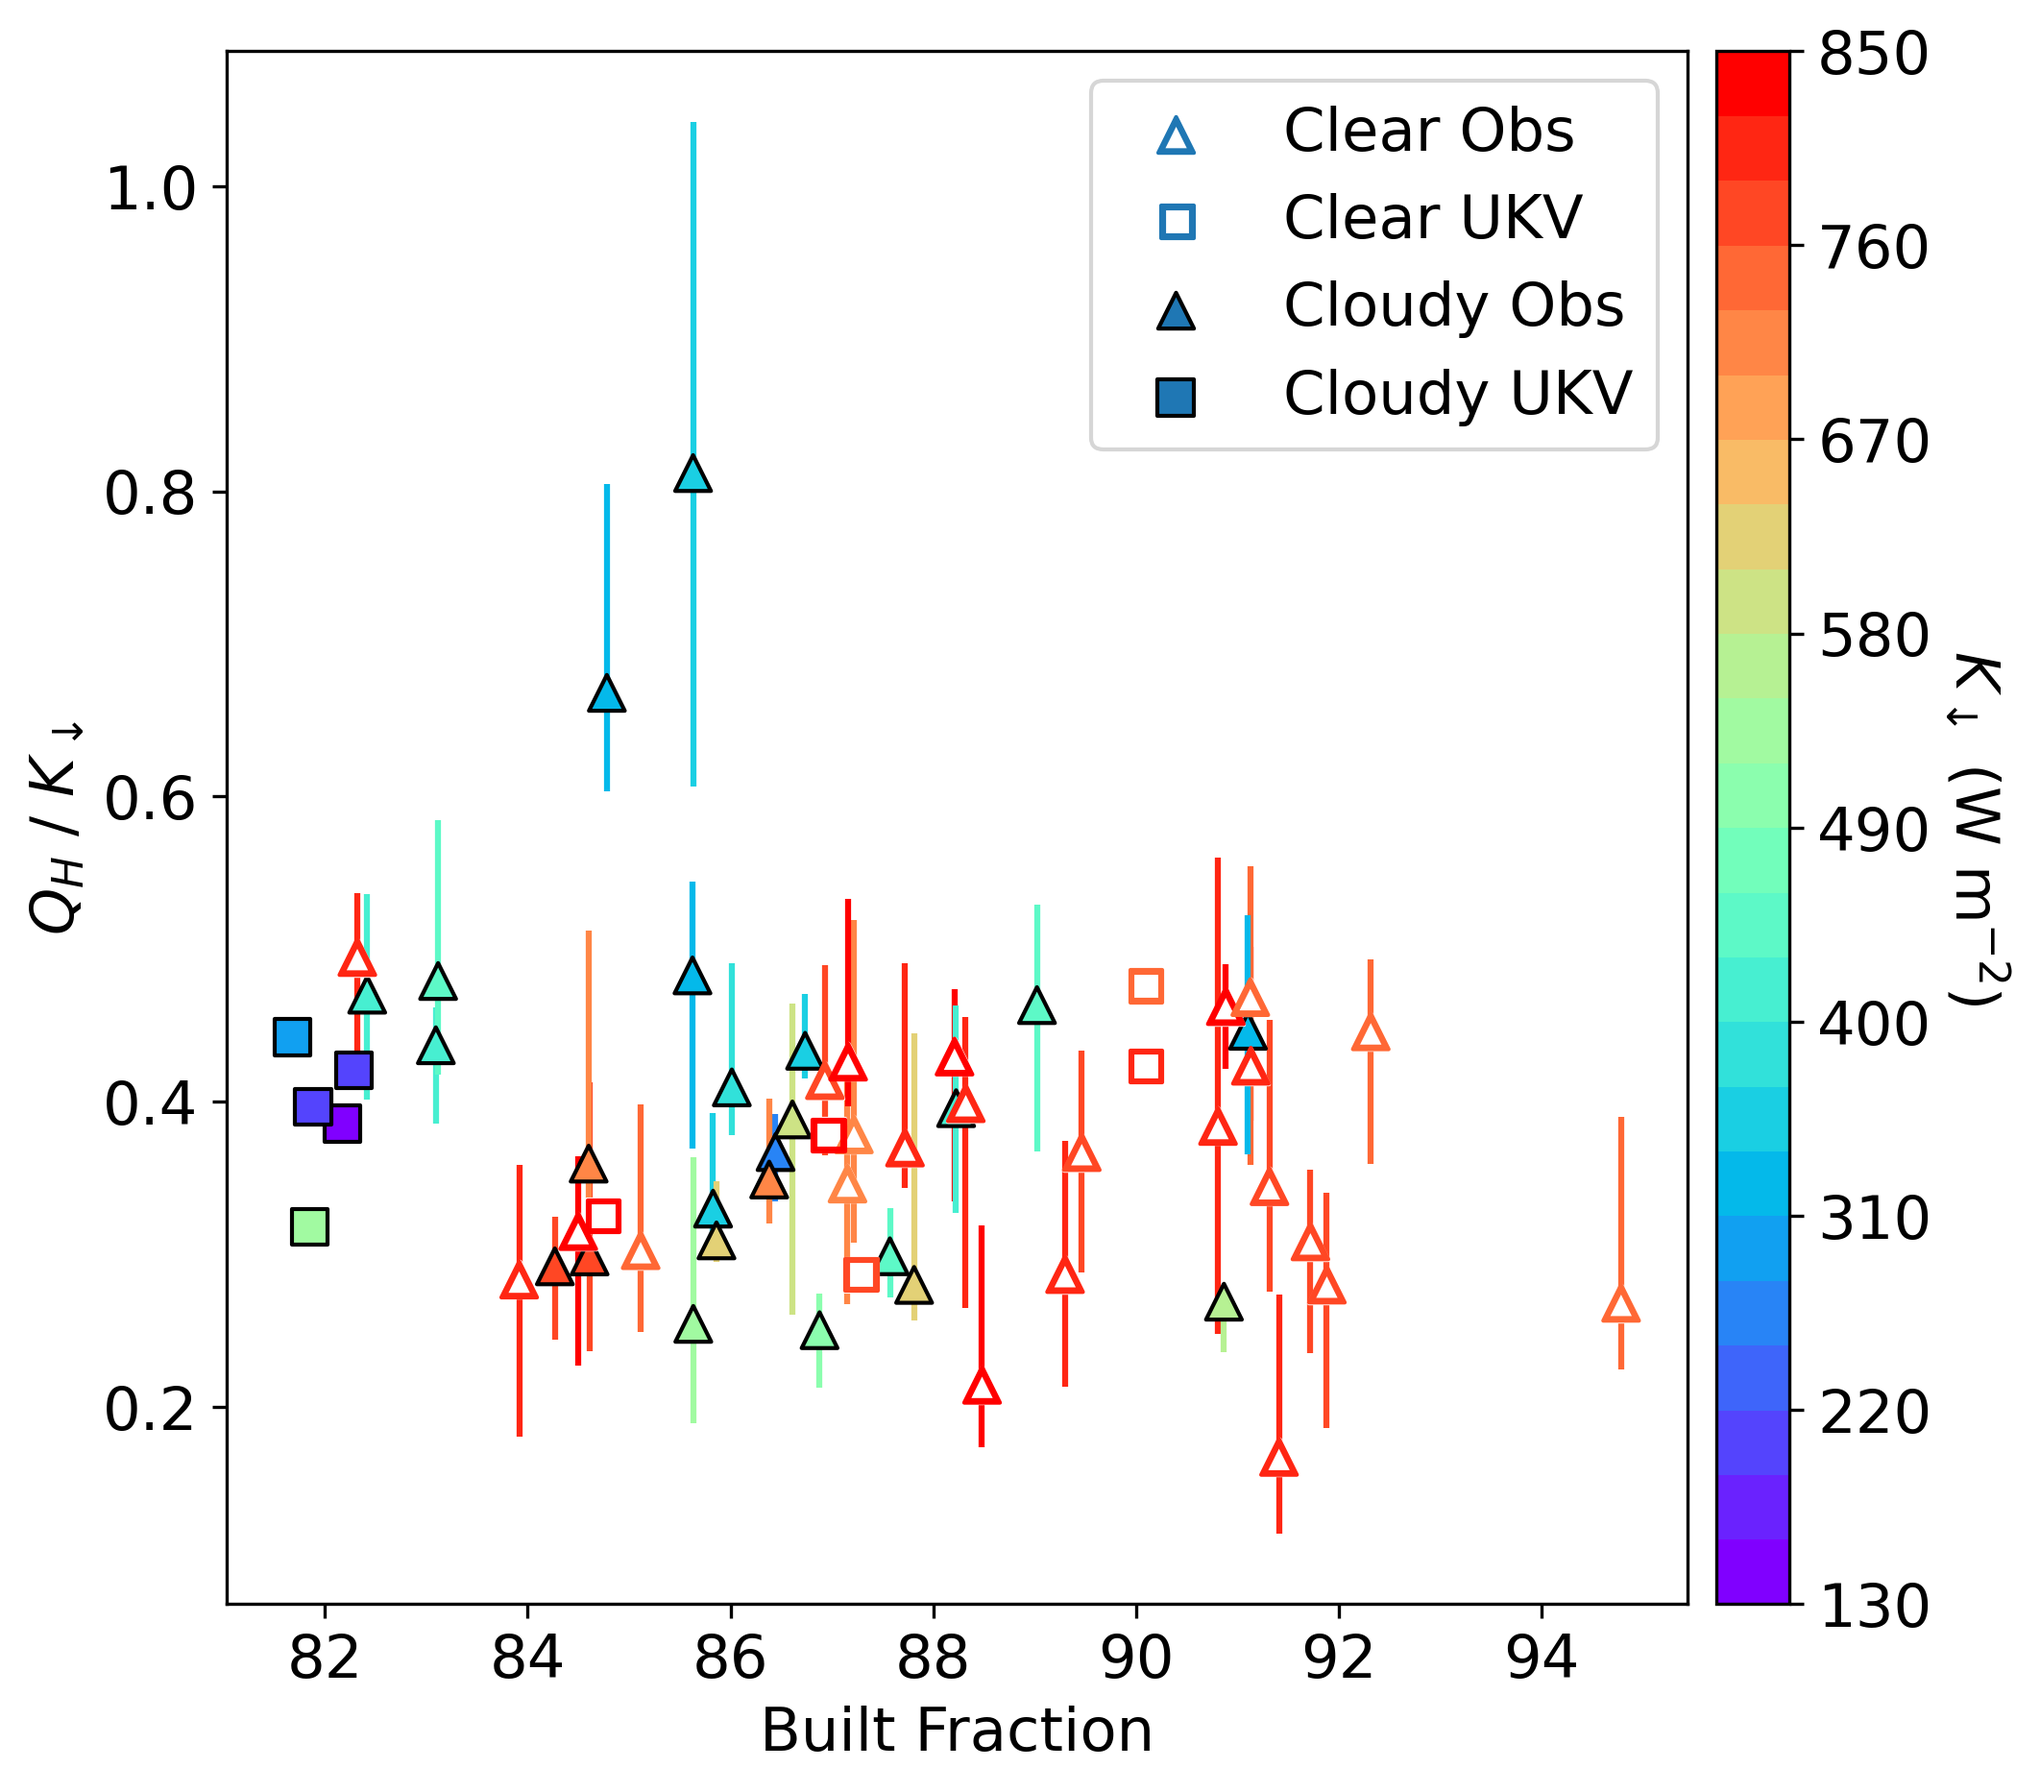
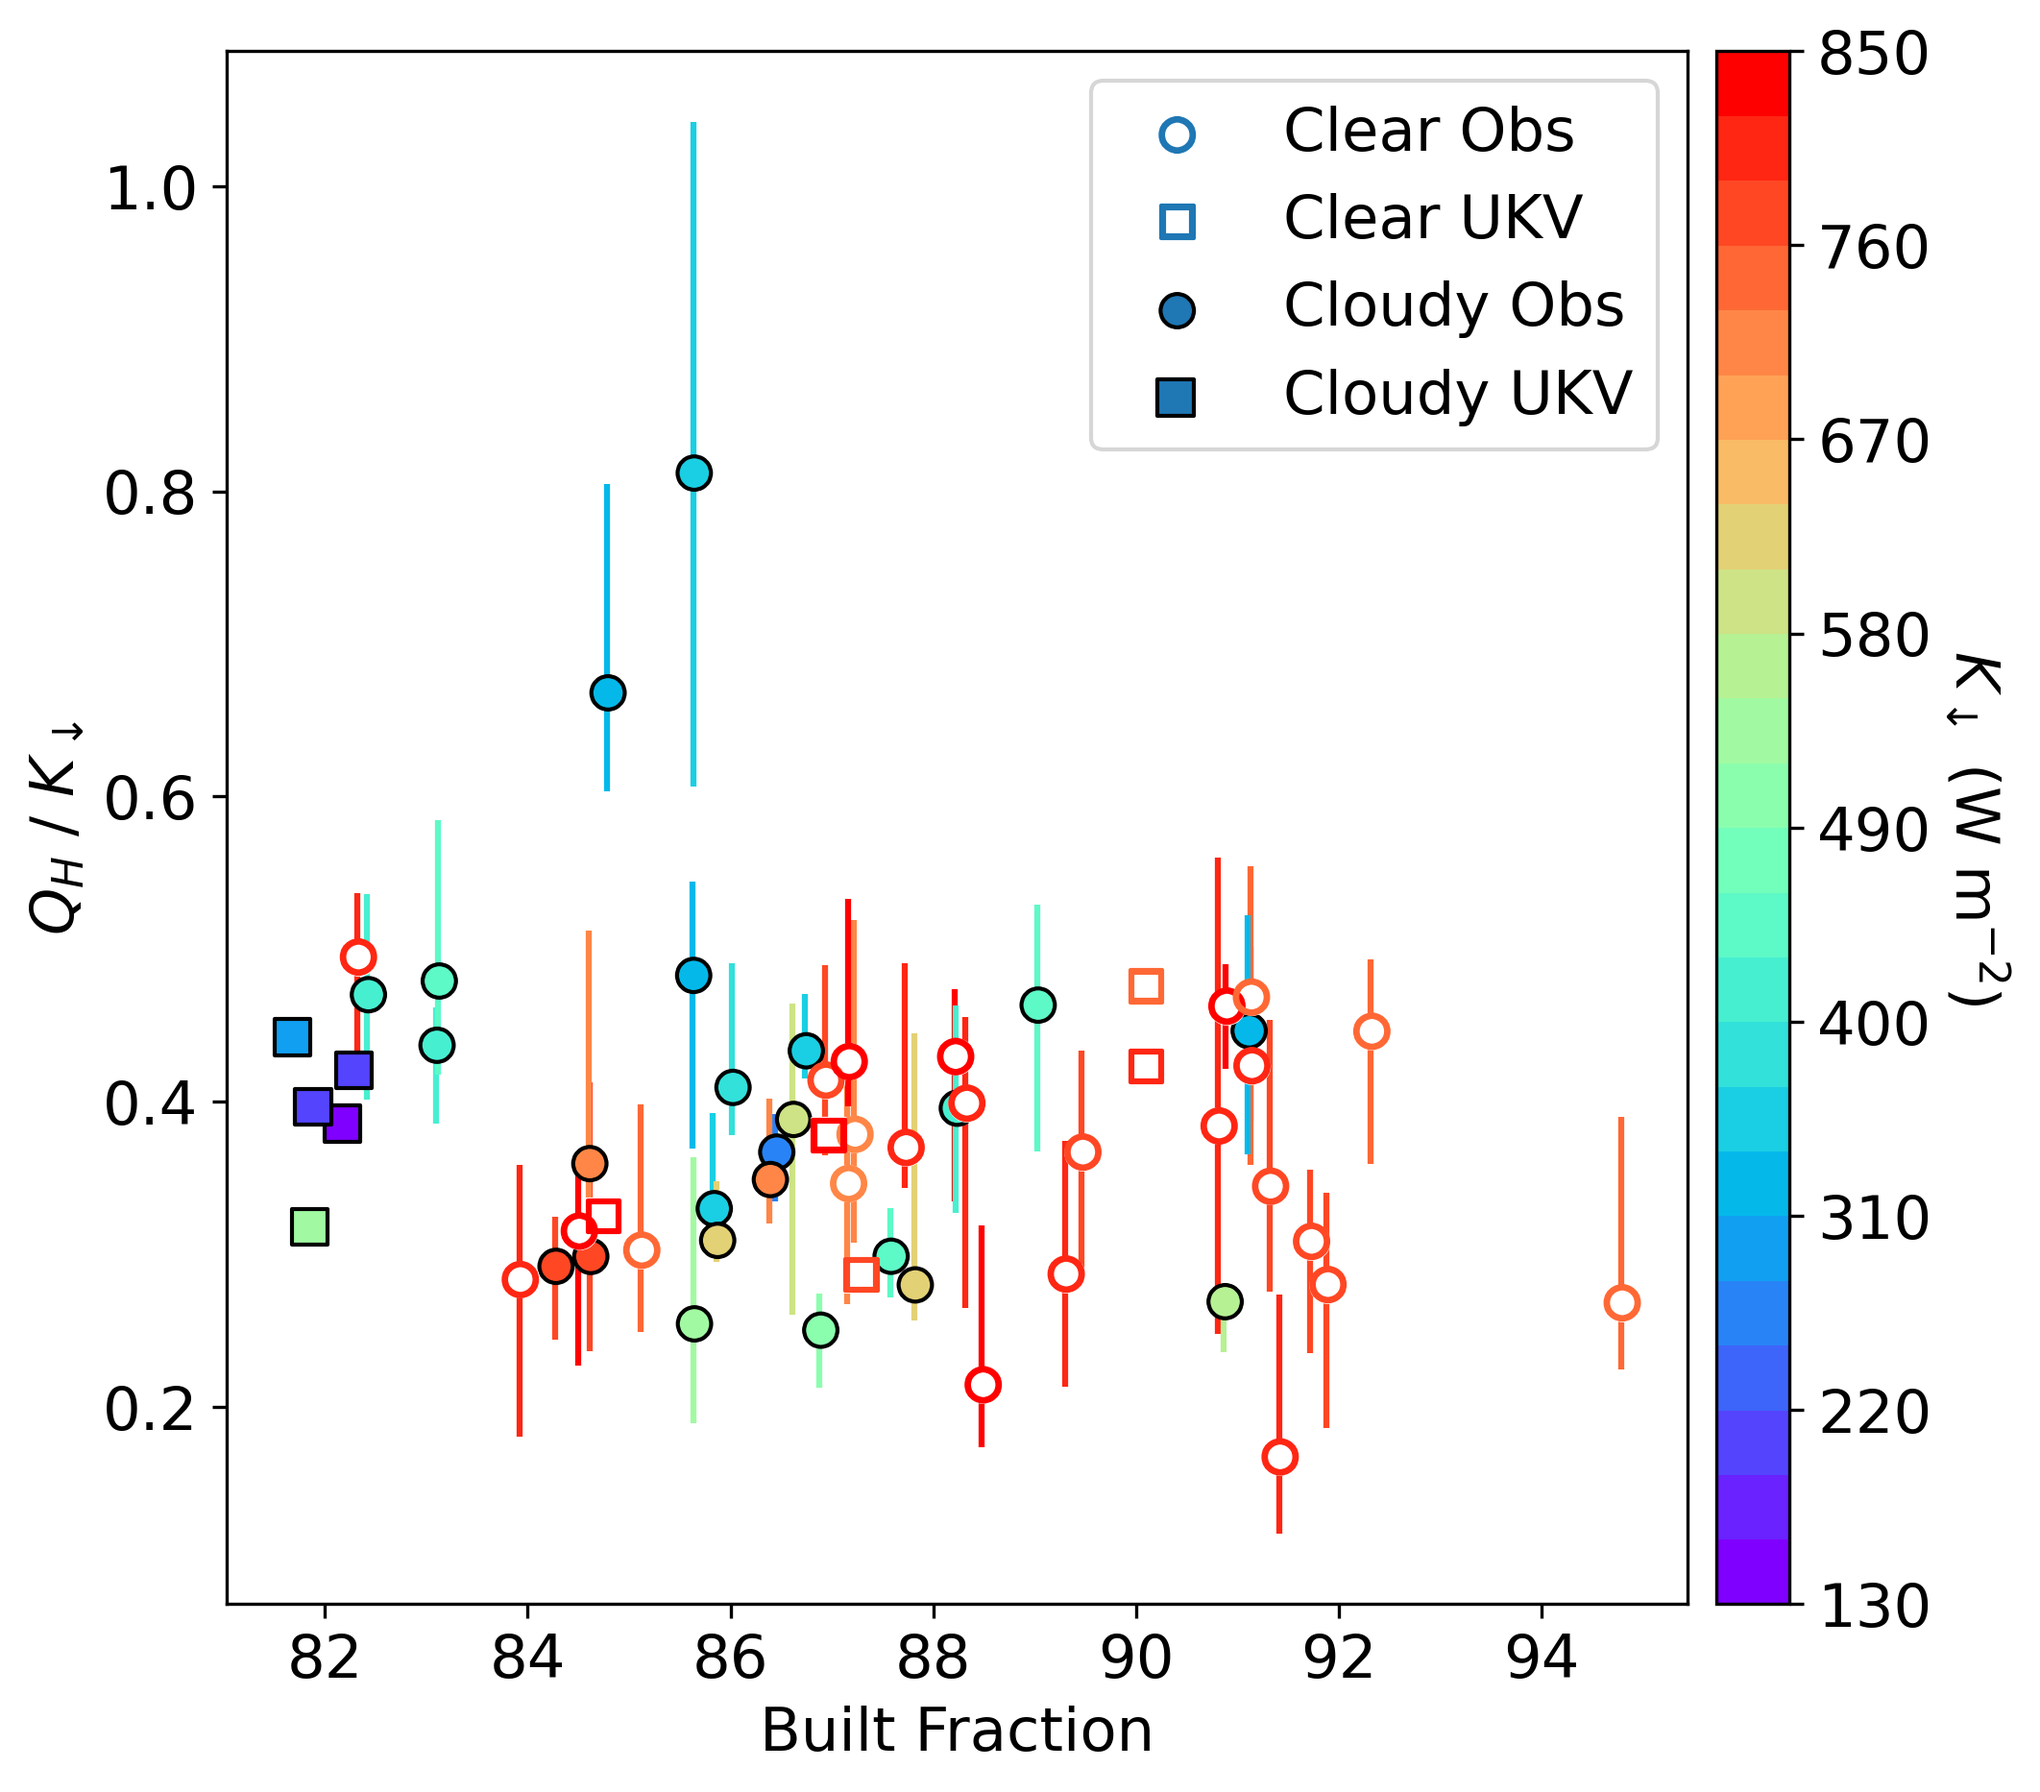
change marker for obs built fraction

diff --git a/scint_plots/built_fraction/built_fraction_funs.py b/scint_plots/built_fraction/built_fraction_funs.py
@@ -252,10 +252,10 @@ def plot_function_built_fraction(output_dict):
             # use white scatter marks - so lines don't appear through marker
             # facecolor didn't work...
             white_block = ax.scatter(x_vals_select, y_vals_select,
-                                     c='white', marker="$\u25B2$", s=80, zorder=2)
+                                     c='white', marker="$\u25cf$", s=80, zorder=2)
 
             s = ax.scatter(x_vals_select, y_vals_select,
-                           c=mean_kdown_select, marker="$\u25B3$", cmap=cmap, norm=norm, label='Clear Obs', s=80,
+                           c=mean_kdown_select, marker="$\u25cb$", cmap=cmap, norm=norm, label='Clear Obs', s=80,
                            zorder=3)
 
             white_block_UKV = ax.scatter(mod_select.Urban * 100, mod_select.QH / mod_select.kdown,
@@ -269,7 +269,7 @@ def plot_function_built_fraction(output_dict):
         else:
             assert obs_df.index[0].strftime('%j') == '123'
 
-            s = ax.scatter(x_vals_select, y_vals_select, c=mean_kdown_select, marker='^', cmap=cmap, norm=norm,
+            s = ax.scatter(x_vals_select, y_vals_select, c=mean_kdown_select, marker='$\u25cf$', cmap=cmap, norm=norm,
                            edgecolor='k', label='Cloudy Obs', s=80)
 
             ax.scatter(mod_select.Urban * 100, mod_select.QH / mod_select.kdown, c=mod_select.kdown, marker='s',
